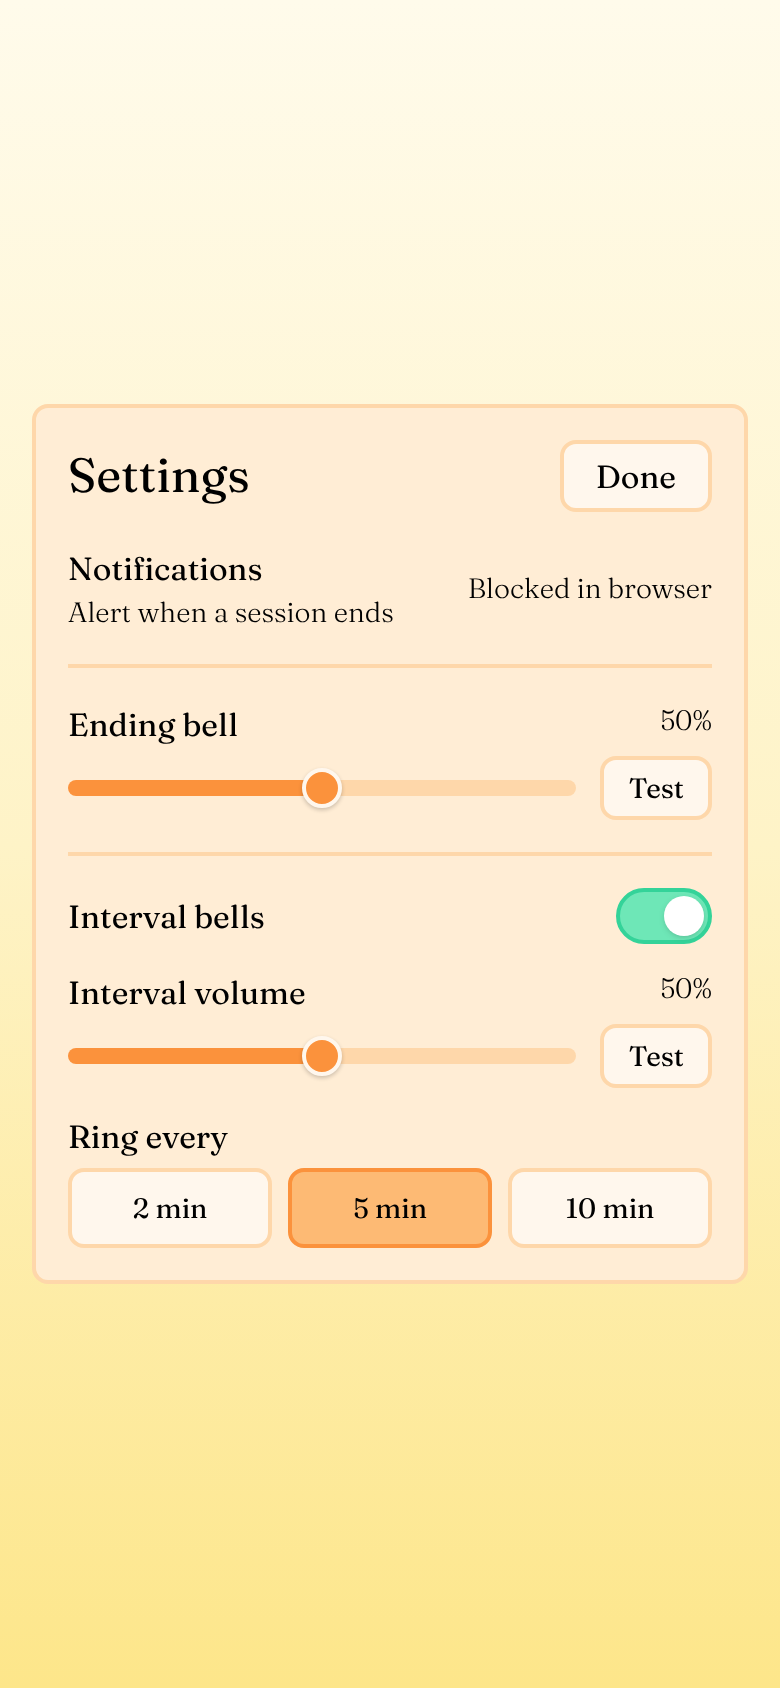
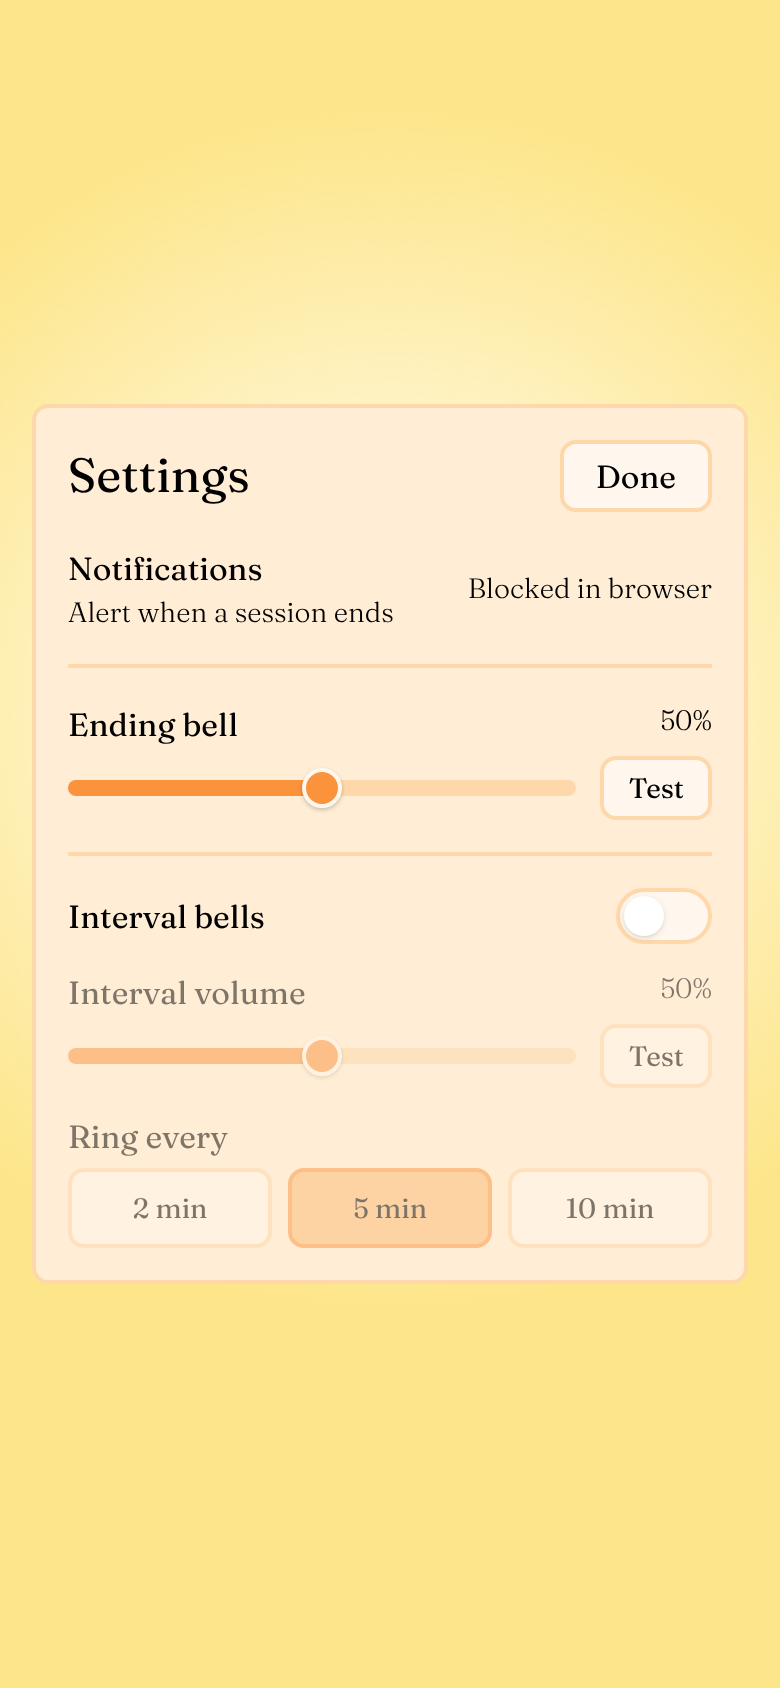
Replace the gradient with a sunlight glow that matches the browser bars
The vertical gradient ran from pale at the top to amber-200 at the bottom,
but Safari's bars use one solid color, so one end always clashed. The page
is now amber-200 at every edge with a soft radial glow of light behind the
content, so both bars blend in.

- During a session the glow slowly swells and settles (10s cycle); it
  stops when paused and is disabled with prefers-reduced-motion.
- Bars turn black with the dim screen.
- theme-color and manifest colors match the page edge.

Claude-Session: https://claude.ai/code/session_01FyS6UfNmQEcDuBKgYkpFCh

diff --git a/app/globals.css b/app/globals.css
@@ -2,10 +2,46 @@
 @tailwind components;
 @tailwind utilities;
 
-/* Anything outside the page box (behind Safari's floating toolbar, overscroll)
-   shows the html background, so match the gradient's ends instead of white. */
+/* Anything outside the page box (behind Safari's toolbars, overscroll) shows
+   the html background. The page is this same yellow at every edge, so the
+   browser bars blend in at the top and bottom. */
 html {
-  background-color: #fde68a; /* amber-200, the gradient's bottom */
+  background-color: #fde68a; /* amber-200 */
+}
+/* The dim screen is black; keep the browser bars black with it. */
+html.dimmed {
+  background-color: #000;
+}
+
+/* Sunlight: a soft glow behind the content on a warm yellow sky. It fades
+   out well before the top and bottom edges so they stay solid amber-200. */
+.sun {
+  position: absolute;
+  inset: 0;
+  pointer-events: none;
+  transform-origin: 50% 42%;
+  background: radial-gradient(
+    ellipse 120% 55% at 50% 42%,
+    #fffbeb 0%,               /* amber-50: the bright middle */
+    #fef3c7 30%,              /* amber-100 */
+    rgb(253 230 138 / 0) 65%  /* fades into the amber-200 sky */
+  );
+}
+/* During a session the light slowly swells and settles, like breathing. */
+@keyframes sun-breathe {
+  0%, 100% { transform: scale(1); opacity: 0.85; }
+  50% { transform: scale(1.06); opacity: 1; }
+}
+.sun-breathe {
+  animation: sun-breathe 10s ease-in-out infinite;
+}
+main:has([data-paused]) .sun-breathe {
+  animation-play-state: paused;
+}
+@media (prefers-reduced-motion: reduce) {
+  .sun-breathe {
+    animation: none;
+  }
 }
 
 /* WebKit and Blink */

diff --git a/app/ui/meditations.tsx b/app/ui/meditations.tsx
@@ -95,6 +95,11 @@ export function Timer({ toggleTimer }: TimerProps) {
   const [displayTime, setDisplayTime] = useState<number>(seconds);
   const [paused, setPaused] = useState<boolean>(false);
   const [dimmed, setDimmed] = useState<boolean>(false);
+
+  useEffect(() => {
+    document.documentElement.classList.toggle('dimmed', dimmed);
+    return () => document.documentElement.classList.remove('dimmed');
+  }, [dimmed]);
   const remainingTimeRef = useRef<number>(seconds * 1000);
   const bellsRef = useRef<number[] | null>(null);
   const startTimeRef = useRef<string>('');
@@ -175,7 +180,7 @@ export function Timer({ toggleTimer }: TimerProps) {
   const progress = seconds > 0 ? Math.min(100, (1 - displayTime / seconds) * 100) : 0;
 
   return (
-    <div className='flex flex-col gap-3'>
+    <div className='flex flex-col gap-3' data-paused={paused || undefined}>
       <h1 className='text-center text-2xl'>
         {sessionMinutes} {sessionMinutes === 1 ? 'minute' : 'minutes'} of stillness
       </h1>

diff --git a/app/page.tsx b/app/page.tsx
@@ -25,10 +25,11 @@ export default function Home() {
       {/* dvh, not vh: on phones 100vh is taller than the visible area while the
           browser toolbars are showing, which made the page scroll and jump. */}
       <main
-        className="h-dvh overflow-y-auto overscroll-none flex flex-col
+        className="relative h-dvh overflow-y-auto overscroll-none flex flex-col
         px-4 pt-[max(1.5rem,env(safe-area-inset-top))] pb-[max(1.5rem,env(safe-area-inset-bottom))]
-        bg-gradient-to-t from-amber-200 via-amber-100 to-amber-50">
-        <div className="w-full max-w-sm m-auto">
+        bg-amber-200">
+        <div className={`sun ${timer ? 'sun-breathe' : ''}`} aria-hidden="true" />
+        <div className="relative w-full max-w-sm m-auto">
           {timer ? (
             <Timer toggleTimer={toggleTimer} />
           ) : (

diff --git a/app/layout.tsx b/app/layout.tsx
@@ -8,12 +8,12 @@ export const metadata: Metadata = {
 };
 
 // viewport-fit=cover lets the page draw behind Safari's floating toolbar and
-// the notch; theme-color tints the browser's own bars to match the top.
+// the notch; theme-color tints the browser's own bars to match the page edges.
 export const viewport: Viewport = {
   width: "device-width",
   initialScale: 1,
   viewportFit: "cover",
-  themeColor: "#fffbeb",
+  themeColor: "#fde68a",
 };
 
 export default function RootLayout({

diff --git a/app/manifest.ts b/app/manifest.ts
@@ -8,8 +8,8 @@ export default function manifest(): MetadataRoute.Manifest {
     scope: '/',
     start_url: '/',
     display: 'standalone',
-    background_color: '#fffbeb',
-    theme_color: '#fffbeb',
+    background_color: '#fde68a',
+    theme_color: '#fde68a',
     icons: [
       {
         "src": "icons/android-chrome-36x36.png",

diff --git a/README.md b/README.md
@@ -20,6 +20,7 @@ A small, installable meditation timer for the web. Pick a duration, press start,
 - **Keeps the screen awake** during a session ([Screen Wake Lock API](https://developer.mozilla.org/en-US/docs/Web/API/Screen_Wake_Lock_API)), plus a **dim mode** so the phone can rest face-up without lighting up the room
 - **Session history**: total sessions and minutes, stored locally on the device
 - **Installable PWA** that works offline once loaded
+- **Sunlight theme**: warm yellow with a soft glow of light behind the content that slowly breathes during a session (still when paused or with reduced motion on)
 
 ## How it works
 
